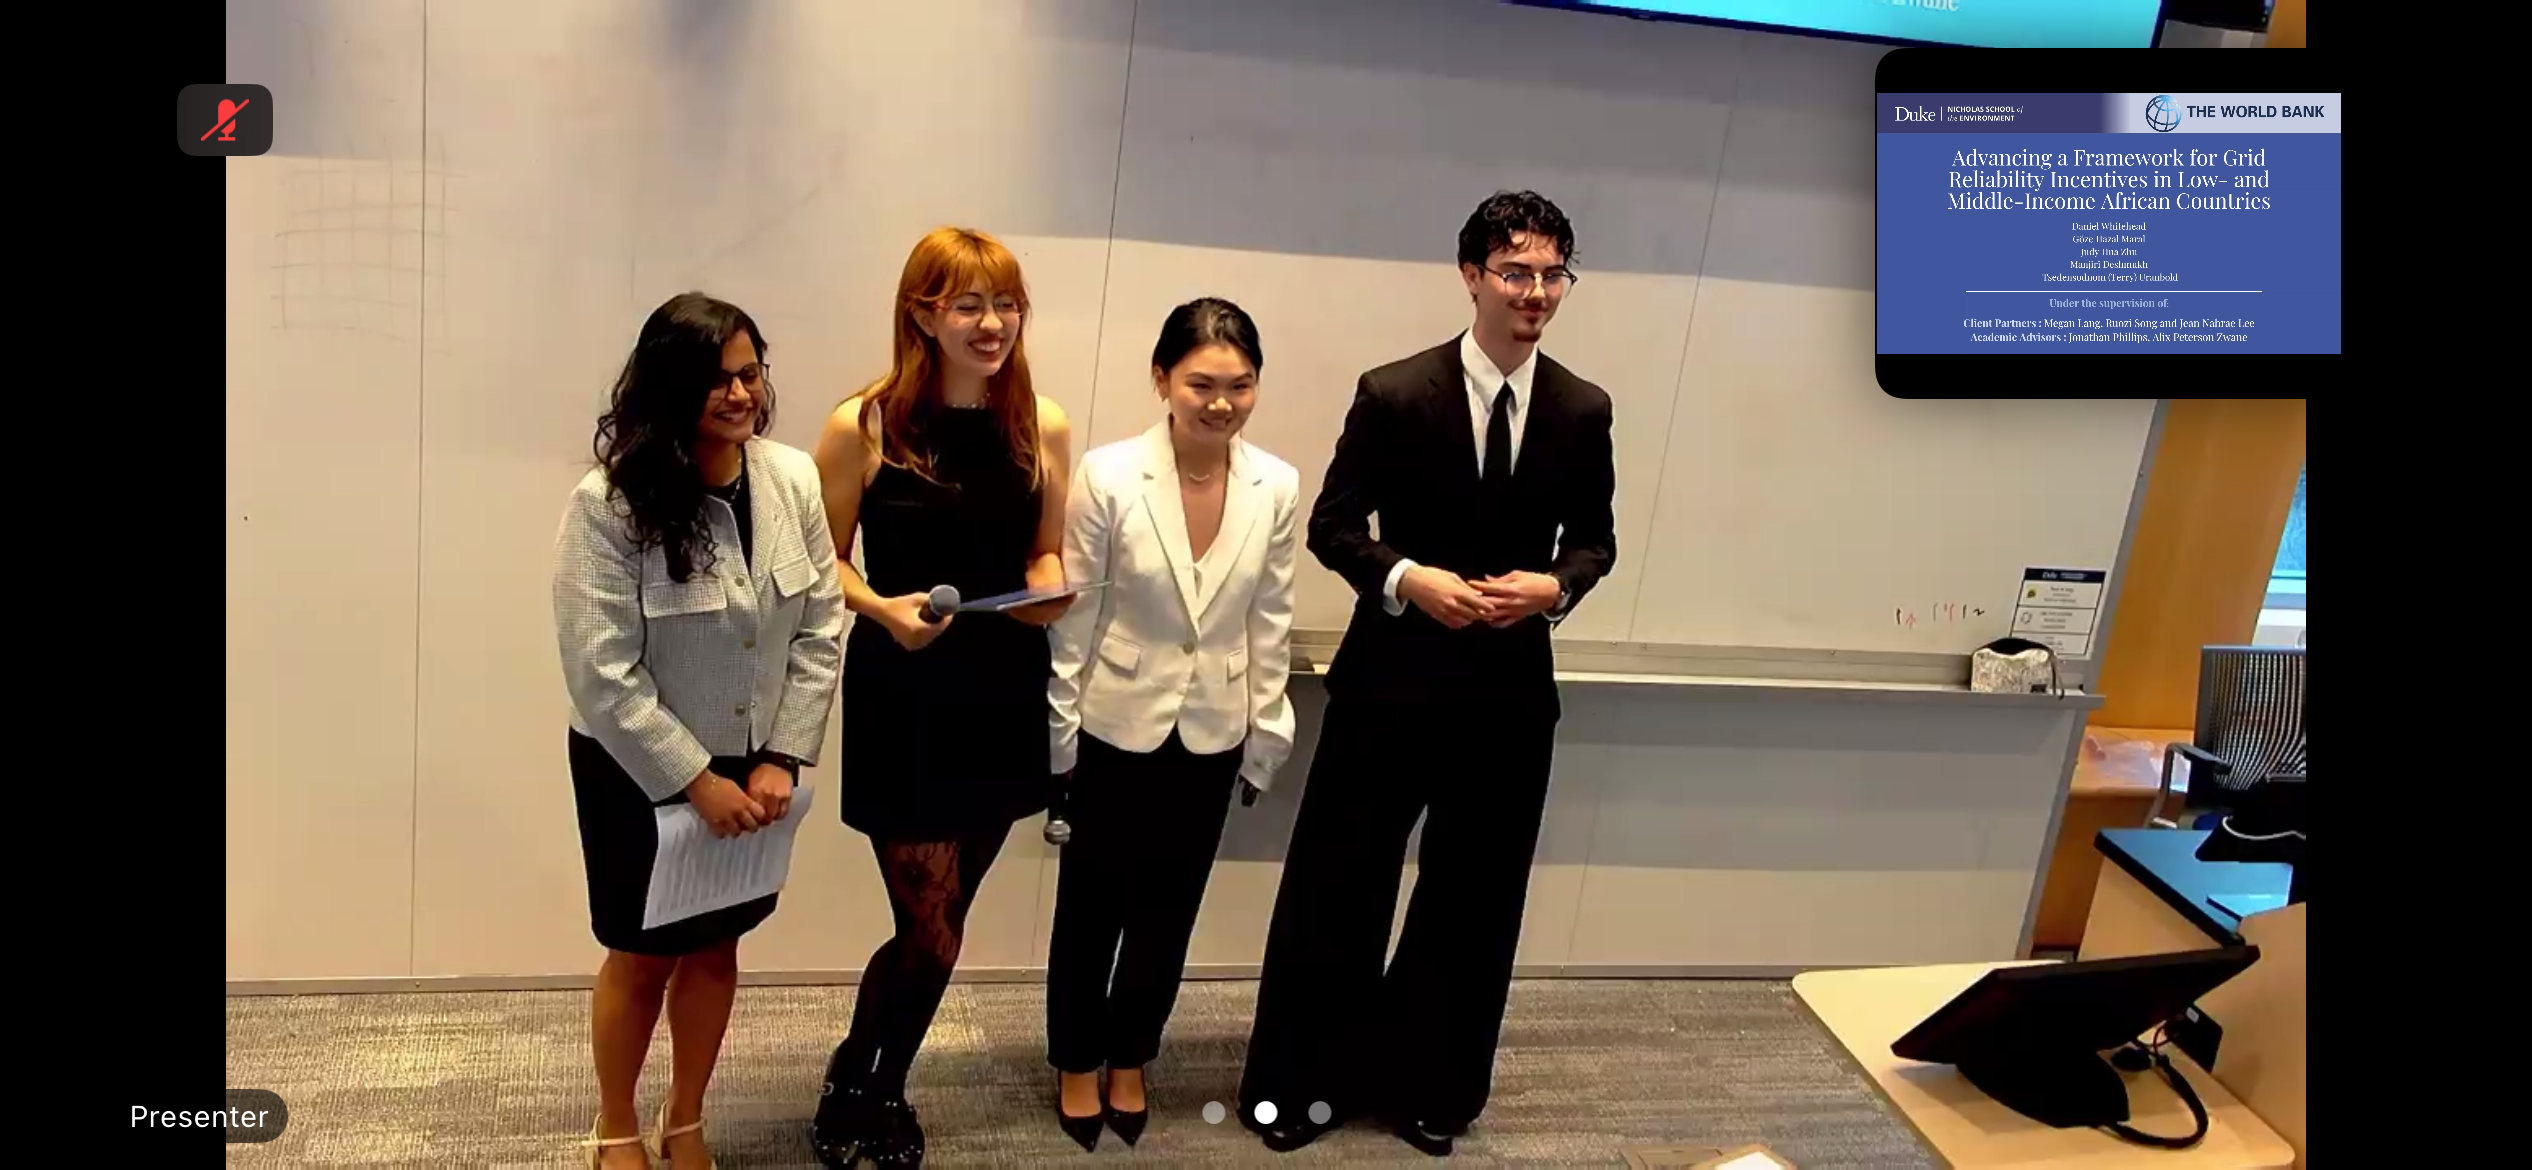
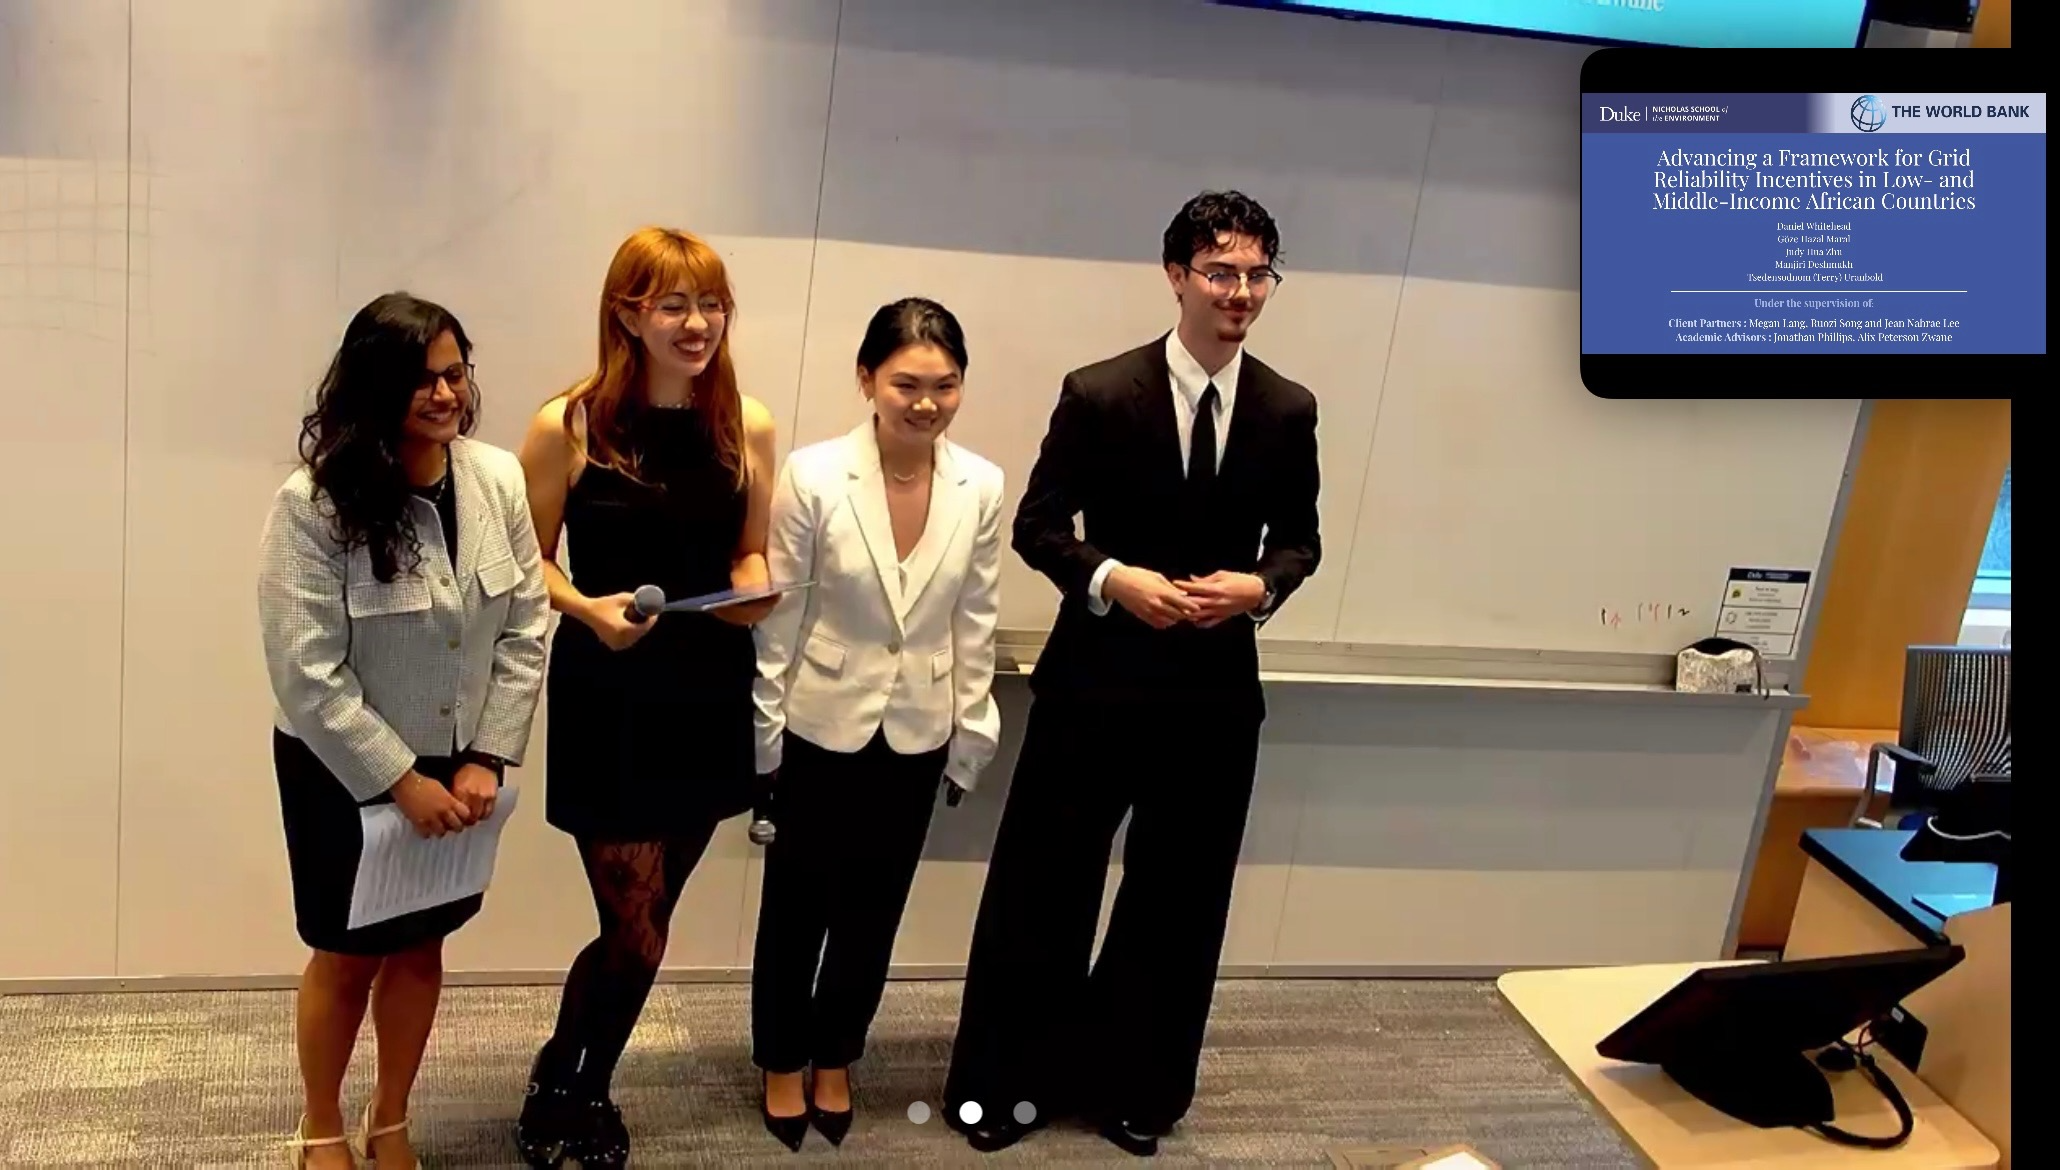
Fix project image cropping, headline line-wrap bug, and size/color tweaks
- Fix real bug: on desktop, md:aspect-auto let the grid stretch each
  project card's image container to match its sibling text column's
  height, then object-cover cropped to fill that mismatched box.
  Switched to object-contain so images are never cropped (affected
  all 4 project cards, not just Grid_pic).
- Fix real bug: the "Modeling the Future" headline was silently
  wrapping onto two lines at several breakpoints because the font
  size didn't fit the column width — verified min/max fit at 375,
  768, 900, 1024, 1280, and 1536px and set a 4-tier responsive scale
  that guarantees exactly 2 lines everywhere while sizing up on
  wider screens.
- Enlarge hero headshot (max-w-md -> max-w-lg) and darken the
  headline highlight further toward the original brand green.
- Swap in the user's replacement hero headshot as-is (no background
  processing, per request) and updated mountain_pic/mp_presentation_pic.

diff --git a/work.html b/work.html
@@ -79,7 +79,7 @@
     <!-- Project 1: Grid Reliability -->
     <article class="card project-card grid md:grid-cols-2 overflow-hidden">
       <div class="aspect-video md:aspect-auto order-1 md:order-2 border-b md:border-b-0 md:border-l border-border">
-        <img src="assets/projects/Grid_pic.png" alt="Grid reliability incentive framework" class="w-full h-full object-cover" />
+        <img src="assets/projects/Grid_pic.png" alt="Grid reliability incentive framework" class="w-full h-full object-contain" />
       </div>
       <div class="p-8 md:p-10 flex flex-col justify-center order-2 md:order-1">
         <p class="eyebrow mb-3"><span class="text-accent-green">01</span> &nbsp; Grid Reliability</p>
@@ -99,7 +99,7 @@
     <!-- Project 2: Bloomberg Battery -->
     <article class="card project-card grid md:grid-cols-2 overflow-hidden">
       <div class="aspect-video md:aspect-auto border-b md:border-b-0 md:border-r border-border">
-        <img src="assets/projects/bloomberg-battery.png" alt="Bloomberg battery strategy evaluation" class="w-full h-full object-cover" />
+        <img src="assets/projects/bloomberg-battery.png" alt="Bloomberg battery strategy evaluation" class="w-full h-full object-contain" />
       </div>
       <div class="p-8 md:p-10 flex flex-col justify-center">
         <p class="eyebrow mb-3"><span class="text-accent-green">02</span> &nbsp; Battery Storage</p>
@@ -117,7 +117,7 @@
     <!-- Project 3: ERCOT -->
     <article class="card project-card grid md:grid-cols-2 overflow-hidden">
       <div class="aspect-video md:aspect-auto order-1 md:order-2 border-b md:border-b-0 md:border-l border-border">
-        <img src="assets/projects/ERCOT_FORECAST.png" alt="ERCOT load forecasting analysis" class="w-full h-full object-cover" />
+        <img src="assets/projects/ERCOT_FORECAST.png" alt="ERCOT load forecasting analysis" class="w-full h-full object-contain" />
       </div>
       <div class="p-8 md:p-10 flex flex-col justify-center order-2 md:order-1">
         <p class="eyebrow mb-3"><span class="text-accent-green">03</span> &nbsp; Load Forecasting</p>
@@ -135,7 +135,7 @@
     <!-- Project 4: CAISO -->
     <article class="card project-card grid md:grid-cols-2 overflow-hidden">
       <div class="aspect-video md:aspect-auto border-b md:border-b-0 md:border-r border-border">
-        <img src="assets/projects/caiso-forecasting.png" alt="CAISO load forecasting analysis" class="w-full h-full object-cover" />
+        <img src="assets/projects/caiso-forecasting.png" alt="CAISO load forecasting analysis" class="w-full h-full object-contain" />
       </div>
       <div class="p-8 md:p-10 flex flex-col justify-center">
         <p class="eyebrow mb-3"><span class="text-accent-green">04</span> &nbsp; Load Forecasting</p>

diff --git a/index.html b/index.html
@@ -76,7 +76,7 @@
     <div class="min-w-0">
       <p class="eyebrow mb-5"><span class="accent">DANIEL WHITEHEAD</span> · ENERGY ANALYST, PSG ENERGY GROUP</p>
 
-      <h1 class="text-4xl lg:text-6xl mb-6 break-words">
+      <h1 class="text-[1.75rem] lg:text-4xl xl:text-5xl 2xl:text-6xl mb-6 break-words">
         <span class="highlight">Modeling the Future</span><br />
         <span class="highlight">of Clean Power.</span>
       </h1>
@@ -97,7 +97,7 @@
       </div>
     </div>
 
-    <div class="aspect-[4/5] w-full max-w-md mx-auto md:mr-8 bg-bg">
+    <div class="aspect-[4/5] w-full max-w-lg mx-auto md:mr-8 bg-bg">
       <img src="assets/hero/hero_headshot.png" alt="Daniel Whitehead" class="w-full h-full object-contain" />
     </div>
   </div>

diff --git a/css/styles.css b/css/styles.css
@@ -9,7 +9,7 @@
   --carmine: #960019;
   --accent-light: #d9e2ed;
   --accent-green-light: #eaf7ef;
-  --hero-hl: #a6daba;
+  --hero-hl: #80cb9c;
 
   --link: #023e8a;
   --link-soft: rgba(2, 62, 138, 0.45);
